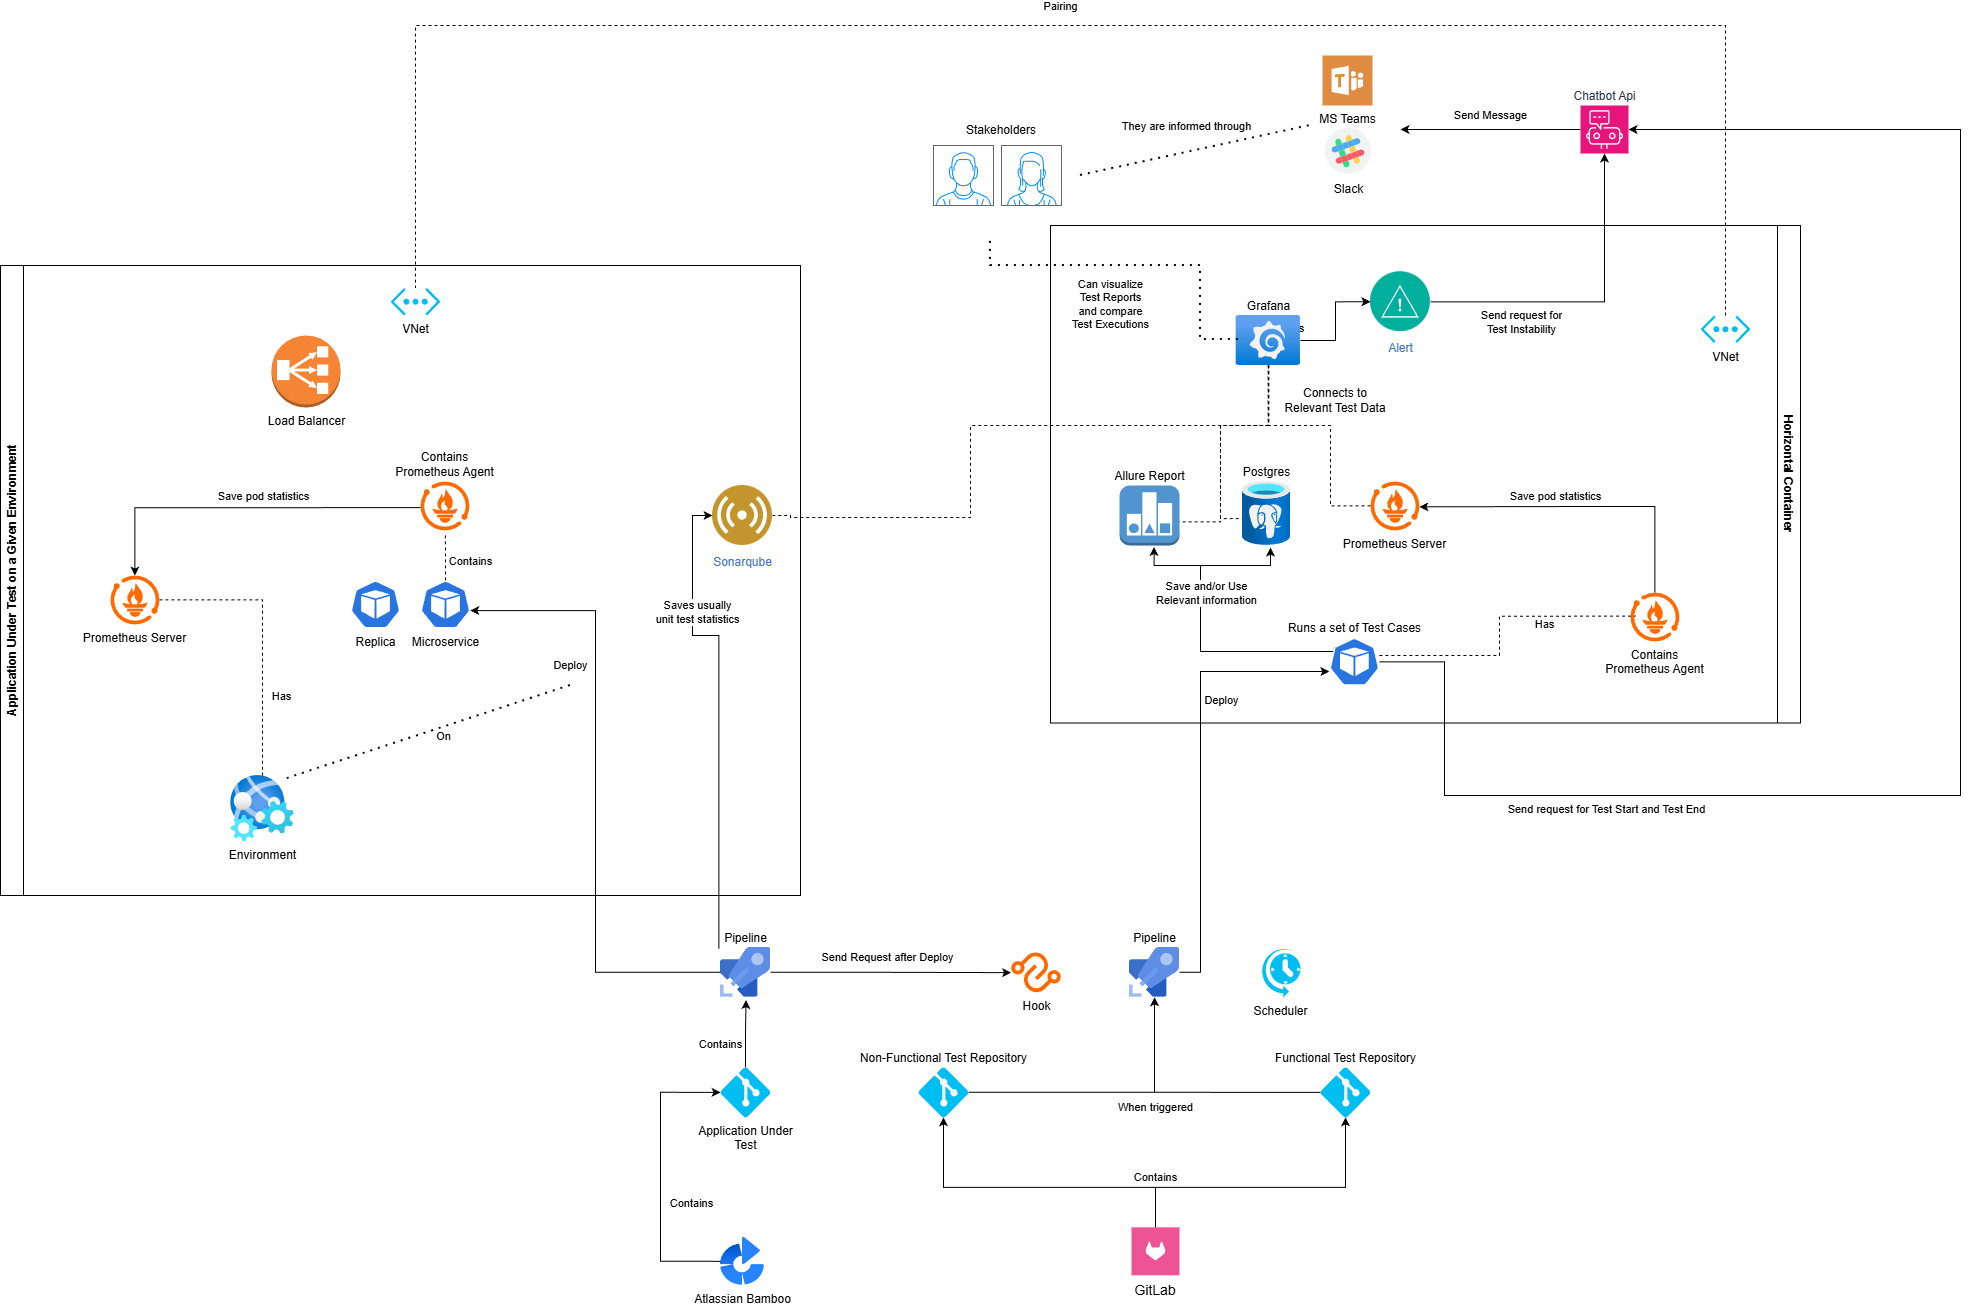
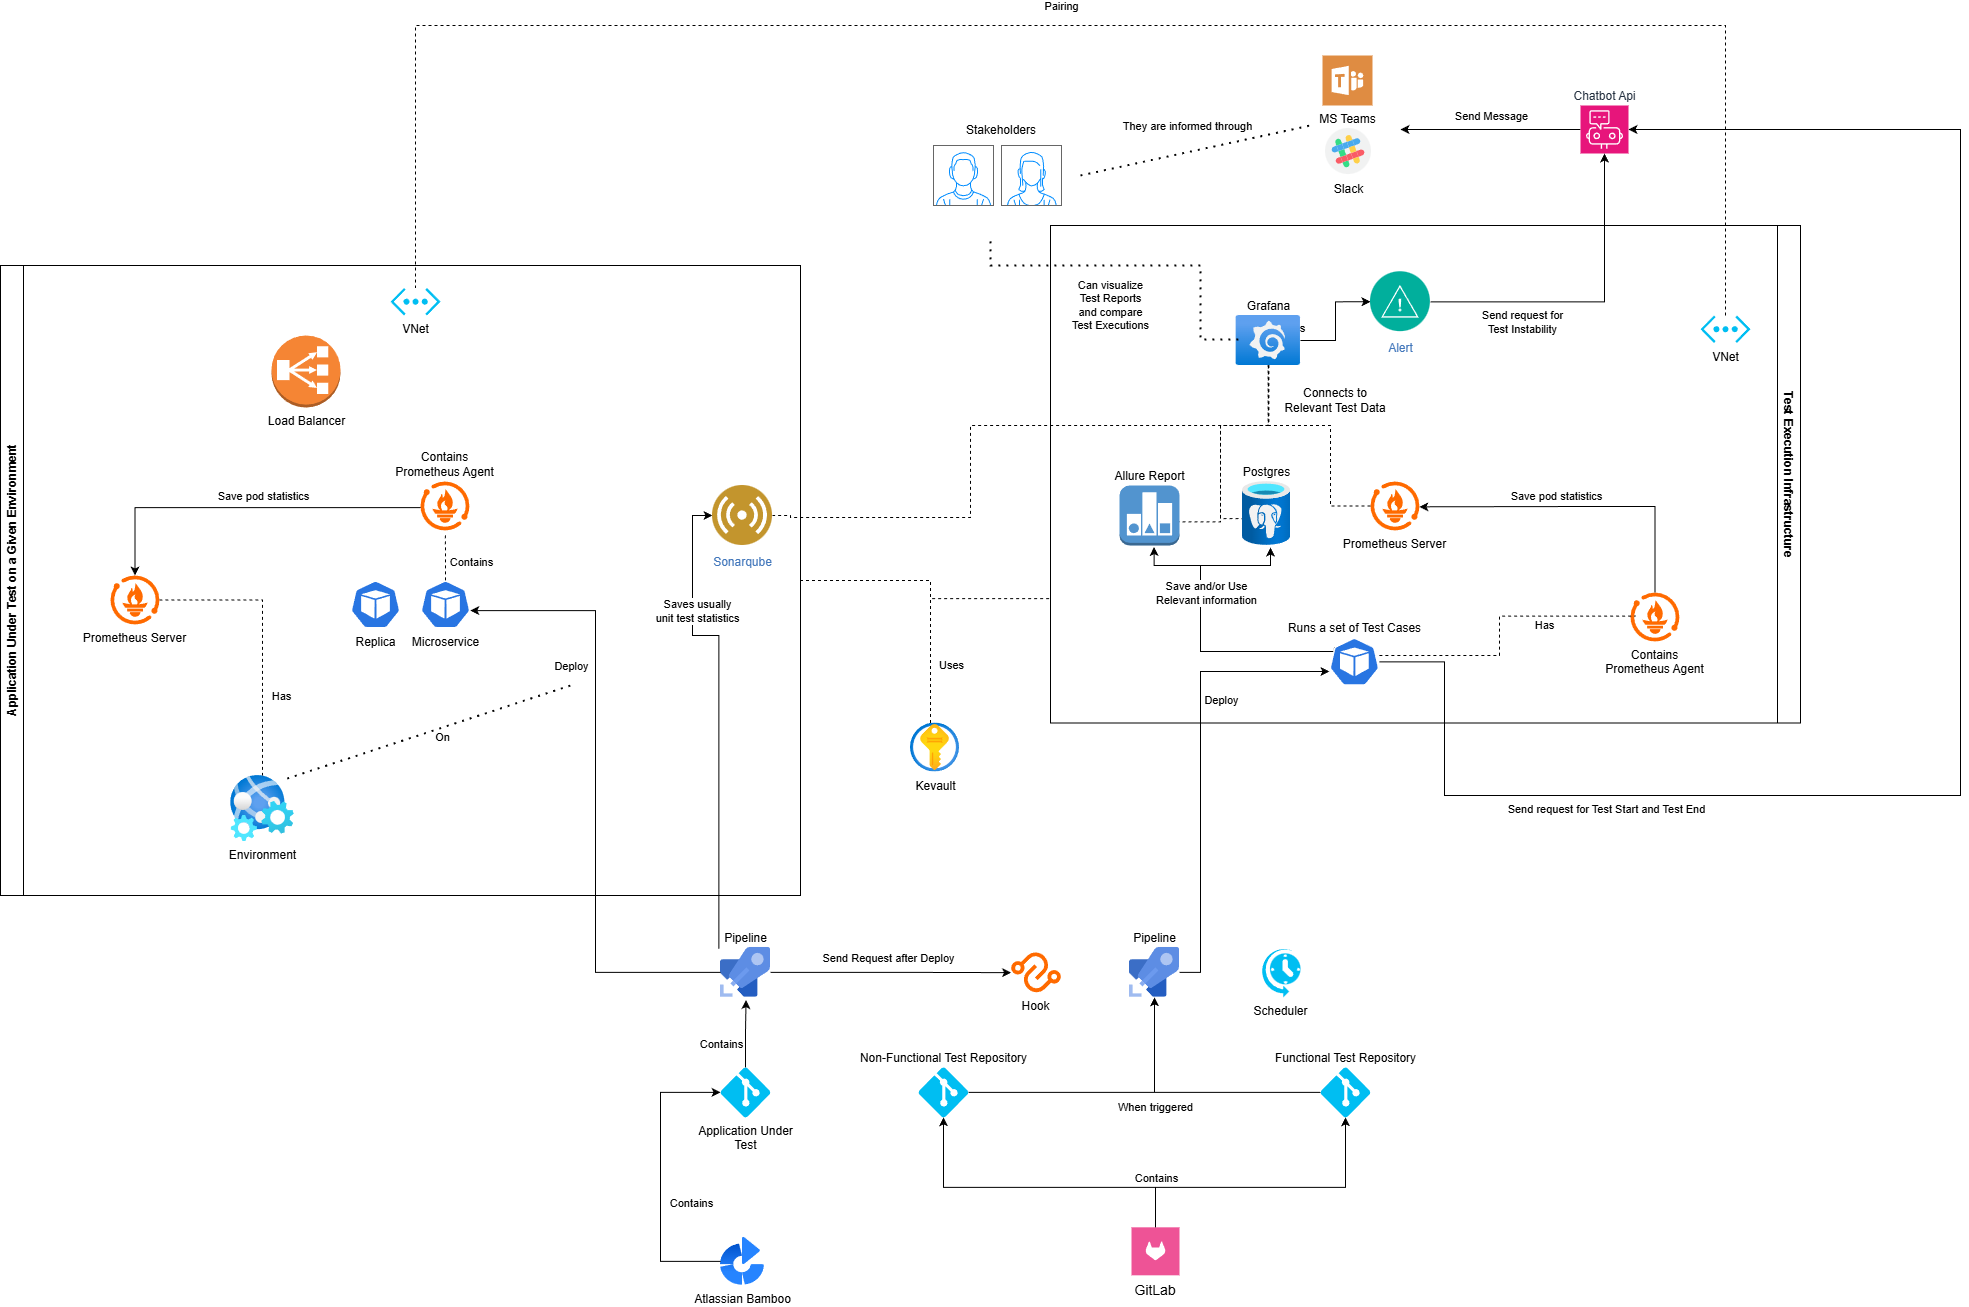
Test Strategy completed

diff --git a/docs/test-strategy.md b/docs/test-strategy.md
@@ -8,21 +8,21 @@ The test strategy outlines the scope and objectives of testing, applicable test 
 
 The following terms are used in this document and are defined here for clarity and consistency.
 
-| Term              | Short Definition                                                                                     |
-| ----------------- | ---------------------------------------------------------------------------------------------------- |
-| **OKR**           | Objectives and Key Results used to align teams on measurable quality and delivery goals.             |
-| **Quality**       | The degree to which a product meets requirements, user expectations, and business goals.             |
-| **Processes**     | Structured activities and rules followed to build, test, and deliver software consistently.          |
-| **Artifacts**     | Documents or outputs produced during the software development and testing lifecycle.                 |
-| **Test Plan**     | A document that defines test objectives, scope, approach, schedule, responsibilities and Test Cases. |
-| **Test Case**     | A set of conditions, inputs, and expected results used to verify a specific behavior.                |
-| **Quality Gates** | Checkpoints used to verify that defined quality criteria are met before proceeding.                  |
-| **Bugs**          | Technical flaws in the software that cause incorrect or unexpected results.                          |
-| **Severity**      | The level of impact a bug has on system functionality or user experience.                            |
-| **Priority**      | The order in which a bug should be fixed based on business importance.                               |
-| **Risks**         | Potential events or conditions that may negatively affect quality, schedule, or scope.               |
-| **KPI**           | Key Performance Indicator used to measure testing effectiveness and quality performance.             |
-
+| Term              | Short Definition                                                                                                          |
+| ----------------- | ------------------------------------------------------------------------------------------------------------------------- |
+| **OKR**           | Objectives and Key Results used to align teams on measurable quality and delivery goals.                                  |
+| **SLA**           | Service Level Agreement used to establish reliable and measurable statistics on a contract between consumer and provider. |
+| **Quality**       | The degree to which a product meets requirements, user expectations, and business goals.                                  |
+| **Processes**     | Structured activities and rules followed to build, test, and deliver software consistently.                               |
+| **AUT**           | Application Under Test being the focus of the test strategy.                                                              |
+| **Test Plan**     | A document that defines test objectives, scope, approach, schedule, responsibilities and Test Cases.                      |
+| **Test Case**     | A set of conditions, inputs, and expected results used to verify a specific behavior.                                     |
+| **Quality Gates** | Checkpoints used to verify that defined quality criteria are met before proceeding.                                       |
+| **Bugs**          | Technical flaws in the software that cause incorrect or unexpected results.                                               |
+| **Severity**      | The level of impact a bug has on system functionality or user experience.                                                 |
+| **Priority**      | The order in which a bug should be fixed based on business importance.                                                    |
+| **Risks**         | Potential events or conditions that may negatively affect quality, schedule, or scope.                                    |
+| **KPI**           | Key Performance Indicator used to measure testing effectiveness and quality performance.                                  |
 
 ## Test Pyramid
 
@@ -59,9 +59,40 @@ A Non-Functional Test evaluates how the system performs under specific condition
 
 ## Test Architecture
 
+On a high-level functional and non-functional tests will be segregated on different repositories. Aiming to easily isolate proper test execution and the relevant dependencies. Consequentially, enable the dev team to easily hook into their own project pipelines whenever it feels necessary.
 
+This being said, although the repositories are different, the underlying Test Execution Infrastructure will be the same. Meaning:
+
+| Component                  | Description                                                                                  |
+| -------------------------- | -------------------------------------------------------------------------------------------- |
+| **Key Vault**              | Secure storage for secrets, usernames, passwords, and sensitive configuration data.          |
+| **Database**               | Stores test plan reports, execution statistics, and audit-related testing data.              |
+| **Prometheus Server**      | Collects metrics from the test infrastructure to detect performance bottlenecks.             |
+| **Kubernetes Cluster**     | Orchestrates distributed test executions across multiple target environments.                |
+| **Kubernetes Pod**         | Executes test cases and exposes execution and resource metrics via a Prometheus agent.       |
+| **Allure Report**          | Example reporting library that provides fast, local feedback for functional test executions. |
+| **Grafana**                | Centralized monitoring and reporting platform with customizable dashboards for test metrics. |
+| **Virtual Network (VNet)** | Secure network bridge between the test infrastructure and the Application Under Test.        |
+| **Chatbot API**            | Sends automated summaries and notifications based on test execution results.                 |
+
+The relationship of components described above, can be seen at:
 
 ![Test Architecture](images/architecture.png)
+
+As can be seen, there is no mention about NICs, VM Sets, Persistent Discs, etc. This is chosen to not only simplify the visualization and also acknowledge my limitations on the aspect of DevOps. Surely, I will miss out a obvious cruacial component, so I chosen to keep it only where I am knowledgable at.
+
+On the aspect of [functional](../functional/) and [non-functional](../non-functional/) repositories. The following technology stack was chosen:
+
+| Category           | Component            | Selection                 | Short Description                                                                        |
+| ------------------ | -------------------- | ------------------------- | ---------------------------------------------------------------------------------------- |
+| **Functional**     | Programming Language | **Java**                  | Primary language due to strong team expertise for the targeted test types.               |
+| **Functional**     | Test Library         | **Karate**                | Stable, API-focused testing tool; support for other test types is still evolving.        |
+| **Functional**     | Local Test Report    | **Allure Report**         | Lightweight and reliable reporting tool for evaluating local functional test executions. |
+| **Non-Functional** | Programming Language | **Java**                  | Primary language due to strong team expertise for the targeted test types.               |
+| **Non-Functional** | Test Tool            | **JMeter**                | Open-source, Java-based tool for load testing and performance measurement.               |
+| **Non-Functional** | Local Test Report    | **JMeter Native Reports** | Built-in reporting used for local non-functional test execution analysis.                |
+
+Finally, as can be seen, most of the technology stack across the Test Execution Infrastructure is Open Source and roalty-free for commercial use. That doesn't necessarily means that the underlying components are also free. To name a few VMs, Disks and Network. All of them have a cost associated with it. Every cloud provider has its own costs and limitations that change yearly, making hard to precisely estimate how much it will cost. Nonetheless, prior experience providing a infrastructure simmilar to this one, presented the cost of under €3K/month by the end of 2024. 
 
 ## Application Under Test
 
@@ -76,17 +107,69 @@ The Application Under Test (AUT) being topic of this Test Strategy, is composed 
 
 - For now, the Application Under Test isn't hosted anywhere. Every test will be triggered locally, having the AUT self-hosted alongside with it. Such approach is highly disencouraged since its heavily impacts test results reliability and consistency.
 
-## Alignment 
+## Alignment
+
+The Interviewer will take the entire ownership of the test process and is composed by strategyzing, planning, automating, executing and reporting.
+The AUT should and will not be modified in any capacity. To best represent a test execution, test cases will be aggregated within a Test Plan, providing a clear vision of what is being tested on a given period. Therefore, each execution should clearly represents if quality standards driven by KPIs, often established through SLAs and highly suggested from OKRs. 
 
 ### Involved OKRs
 
-Keep track of anually estrablished OKR on a high-level description
+| Objective                                              | Key Results (Derived from KPIs)                      |
+| ------------------------------------------------------ | ---------------------------------------------------- |
+| **Ensure product stability and prevent regressions**   | KR1: Maintain **0% regression new bugs rate**        |
+| **Ensure product stability and prevent regressions**   | KR2: Keep **prior regression bugs unresolved ≤ 1%**  |
+| **Deliver reliable and resilient system behavior**     | KR1: Maintain **response error rate < 1%**           |
+| **Deliver reliable and resilient system behavior**     | KR2: Achieve **system recoverability time < 30s**    |
+| **Provide fast and consistent performance**            | KR1: Maintain **median response time < 1s**          |
+| **Provide fast and consistent performance**            | KR2: Maintain **99th percentile response time < 2s** |
+| **Support business growth through quality experience** | KR1: Achieve **new clients conversion rate > 10%**   |
+
+### KPIs
+
+| KPI                                   | Description                                                            | Target            |
+| ------------------------------------- | ---------------------------------------------------------------------- | ----------------- |
+| Regression New Bugs Rate              | Percentage of new defects introduced by regression testing.            | **0%**            |
+| Prior Regression Bugs Resolution Rate | Percentage of previously known regression bugs that remain unresolved. | **≤ 1% (if any)** |
+| Response Error Rate                   | Percentage of failed or erroneous responses during normal operation.   | **< 1%**          |
+| Estimated Recoverability Time         | Time required for the system to recover after a failure.               | **< 30s**         |
+| Median Response Time                  | Typical system response time under normal load.                        | **< 1s**          |
+| 99th Percentile Response Time         | Worst-case response time experienced by 99% of requests.               | **< 2s**          |
+| New Clients Conversion Rate           | Percentage of new users successfully converted to active clients.      | **> 10%**         |
 
 ### Display the team composition and RACI matrix
 
-Make sure that a RACI matrix is in place.
+| Activity                                                     | QA  | Dev | PO  | DevOps | Stakeholders |
+| ------------------------------------------------------------ | --- | --- | --- | ------ | ------------ |
+| **Provide documentation and application for the assessment** | R   | C   | A   | C      | I            |
+| **Propose Test Strategy**                                    | R   | C   | A   | C      | I            |
+| **Create Test Plan**                                         | R   | C   | A   | I      | I            |
+| **Create Functional Test Automation**                        | R   | C   | I   | C      | I            |
+| **Create Non-Functional Test Automation**                    | R   | C   | I   | C      | I            |
+| **Execute Test Plan**                                        | R   | C   | I   | C      | I            |
+| **Provide Test Report**                                      | R   | I   | A   | I      | I            |
 
 ## Reporting
 
+The test report should ideally be automatically received on preferred communication channel as soon as a test plan finishes its execution. This message, should contain the minimum amount of relevant information to a desired group, often present on the RACI matrix above. Also, a link to a detailed report version should be accompanied with that message already mentioned. This link should be easily accessible to relevant parties. 
+
 ### Quality Gates
 
+| Quality Gate                  | Condition                                       | Pass Criteria            |
+| ----------------------------- | ----------------------------------------------- | ------------------------ |
+| **Regression Stability Gate** | No new defects introduced by regression testing | **0%**                   |
+| **Regression Cleanup Gate**   | Previously identified regression bugs addressed | **> 10% (if any exist)** |
+| **Performance Baseline Gate** | Typical system response under normal load       | **< 1.5s**               |
+| **Performance Tail Gate**     | Worst-case response time for 99% of requests    | **< 5s**                 |
+| **Reliability Gate**          | Percentage of failed or erroneous responses     | **< 3%**                 |
+
+The consequences of not being able to meet the quality gates represents Risks that should be taken in consideration whenever proceeding with a delivery or not.
+
+### Bug Reporting
+
+A bug should be reported as soon as it is identified and reproducible. It should clearly capture both severity and priority, as they describe different aspects of a defect and help teams make effective decisions.
+
+Severity describes the impact of a bug on the system. It reflects how badly the defect affects functionality, performance, stability, or user experience, regardless of when it will be fixed.
+
+Priority indicates the urgency of fixing the bug. It is driven by business needs, release timelines, and customer impact.
+
+By using both severity and priority in bug reports, teams can accurately assess risk, align technical impact with business urgency, and plan fixes more effectively.
